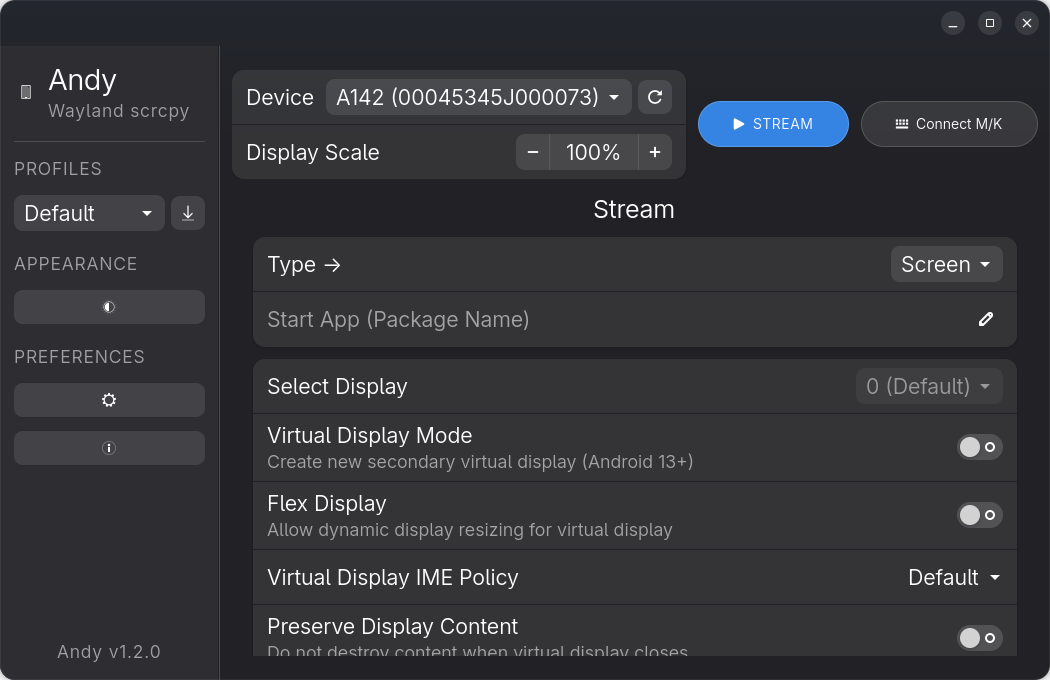
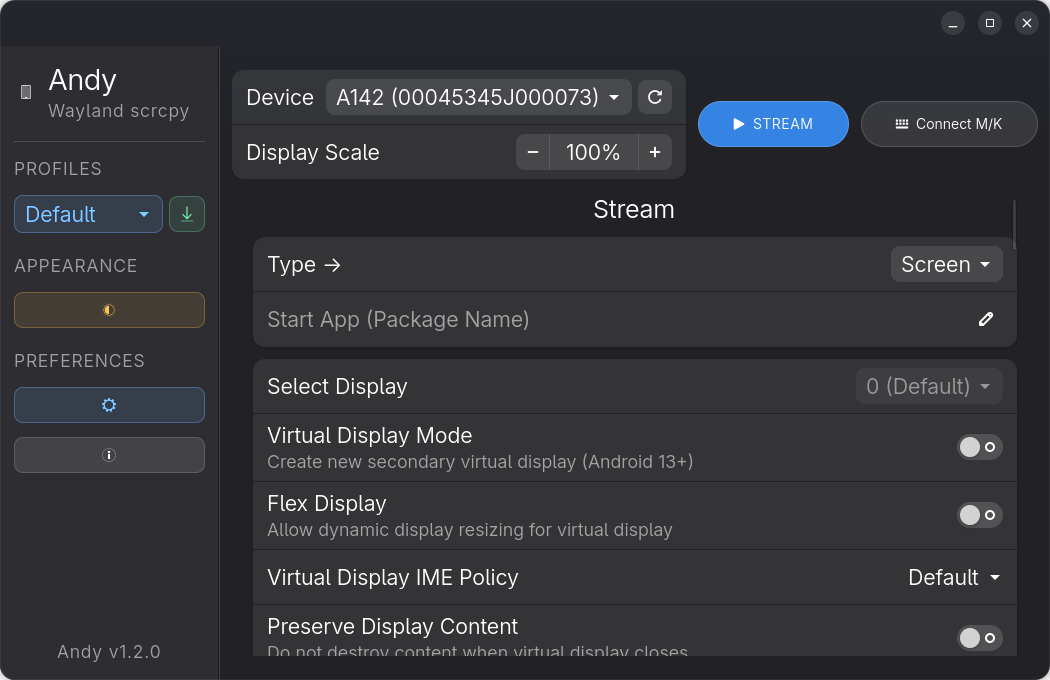
feat(ui): unify sidebar background with app canvas and add colored element accents

diff --git a/src/ui/common/css.py b/src/ui/common/css.py
@@ -145,10 +145,11 @@ APPLICATION_CSS = b"""
         transition: all 150ms ease-in-out;
     }
 
-    /* Permanent Slim Utility Sidebar */
+    /* Permanent Slim Utility Sidebar (Unified with App Background) */
     .sidebar-pane {
-        background-color: alpha(@card_bg_color, 0.45);
-        border-right: 1px solid @borders;
+        background-color: transparent;
+        background: transparent;
+        border-right: 1px solid alpha(currentColor, 0.08);
         padding: 16px 14px;
     }
     .sidebar-pane .dim-label {
@@ -158,9 +159,79 @@ APPLICATION_CSS = b"""
     }
     .sidebar-btn {
         padding: 8px 12px;
-        border-radius: 8px;
-        font-weight: 500;
-        transition: all 150ms ease-in-out;
+        border-radius: 9px;
+        font-weight: 600;
+        transition: all 160ms cubic-bezier(0.25, 1, 0.5, 1);
+    }
+
+    /* Beautified Colored Sidebar Elements */
+    .sidebar-dropdown > button {
+        background-color: alpha(@accent_bg_color, 0.14);
+        color: @accent_color;
+        border: 1px solid alpha(@accent_color, 0.28);
+        border-radius: 9px;
+        font-weight: 600;
+        transition: all 160ms cubic-bezier(0.25, 1, 0.5, 1);
+    }
+    .sidebar-dropdown > button:hover {
+        background-color: alpha(@accent_bg_color, 0.22);
+        border-color: alpha(@accent_color, 0.42);
+    }
+    .sidebar-dropdown > button:active {
+        background-color: alpha(@accent_bg_color, 0.28);
+    }
+
+    .sidebar-save-btn {
+        background-color: alpha(@success_bg_color, 0.16);
+        color: @success_color;
+        border: 1px solid alpha(@success_color, 0.28);
+        padding: 8px 10px;
+    }
+    .sidebar-save-btn:hover {
+        background-color: alpha(@success_bg_color, 0.26);
+        border-color: alpha(@success_color, 0.44);
+    }
+    .sidebar-save-btn:active {
+        background-color: alpha(@success_bg_color, 0.32);
+    }
+
+    .sidebar-theme-btn {
+        background-color: alpha(@warning_bg_color, 0.16);
+        color: @warning_color;
+        border: 1px solid alpha(@warning_color, 0.28);
+    }
+    .sidebar-theme-btn:hover {
+        background-color: alpha(@warning_bg_color, 0.26);
+        border-color: alpha(@warning_color, 0.42);
+    }
+    .sidebar-theme-btn:active {
+        background-color: alpha(@warning_bg_color, 0.32);
+    }
+
+    .sidebar-settings-btn {
+        background-color: alpha(@accent_bg_color, 0.14);
+        color: @accent_color;
+        border: 1px solid alpha(@accent_color, 0.28);
+    }
+    .sidebar-settings-btn:hover {
+        background-color: alpha(@accent_bg_color, 0.24);
+        border-color: alpha(@accent_color, 0.42);
+    }
+    .sidebar-settings-btn:active {
+        background-color: alpha(@accent_bg_color, 0.30);
+    }
+
+    .sidebar-about-btn {
+        background-color: alpha(currentColor, 0.07);
+        color: @window_fg_color;
+        border: 1px solid alpha(currentColor, 0.14);
+    }
+    .sidebar-about-btn:hover {
+        background-color: alpha(currentColor, 0.14);
+        border-color: alpha(currentColor, 0.24);
+    }
+    .sidebar-about-btn:active {
+        background-color: alpha(currentColor, 0.20);
     }
 
     /* Amberol-Style Immersive Seamless HeaderBar */

diff --git a/src/ui/sidebar.py b/src/ui/sidebar.py
@@ -70,9 +70,12 @@ class AndySidebar(Gtk.Box):
 
         prof_row = Gtk.Box(orientation=Gtk.Orientation.HORIZONTAL, spacing=6)
         self.profile_dropdown.set_hexpand(True)
+        self.profile_dropdown.add_css_class("sidebar-dropdown")
         prof_row.append(self.profile_dropdown)
 
         self.save_button.set_tooltip_text("Save Active Profile")
+        self.save_button.add_css_class("sidebar-btn")
+        self.save_button.add_css_class("sidebar-save-btn")
         prof_row.append(self.save_button)
         self.append(prof_row)
 
@@ -86,6 +89,7 @@ class AndySidebar(Gtk.Box):
 
         self.theme_button.set_halign(Gtk.Align.FILL)
         self.theme_button.add_css_class("sidebar-btn")
+        self.theme_button.add_css_class("sidebar-theme-btn")
         self.append(self.theme_button)
 
         # 4. System & Preferences Section
@@ -98,11 +102,13 @@ class AndySidebar(Gtk.Box):
 
         self.settings_button.set_halign(Gtk.Align.FILL)
         self.settings_button.add_css_class("sidebar-btn")
+        self.settings_button.add_css_class("sidebar-settings-btn")
         self.append(self.settings_button)
 
         self.about_button = Gtk.Button(label="About Andy", icon_name="help-about-symbolic")
         self.about_button.set_halign(Gtk.Align.FILL)
         self.about_button.add_css_class("sidebar-btn")
+        self.about_button.add_css_class("sidebar-about-btn")
         if on_about_clicked:
             self.about_button.connect("clicked", lambda b: on_about_clicked())
         self.append(self.about_button)
